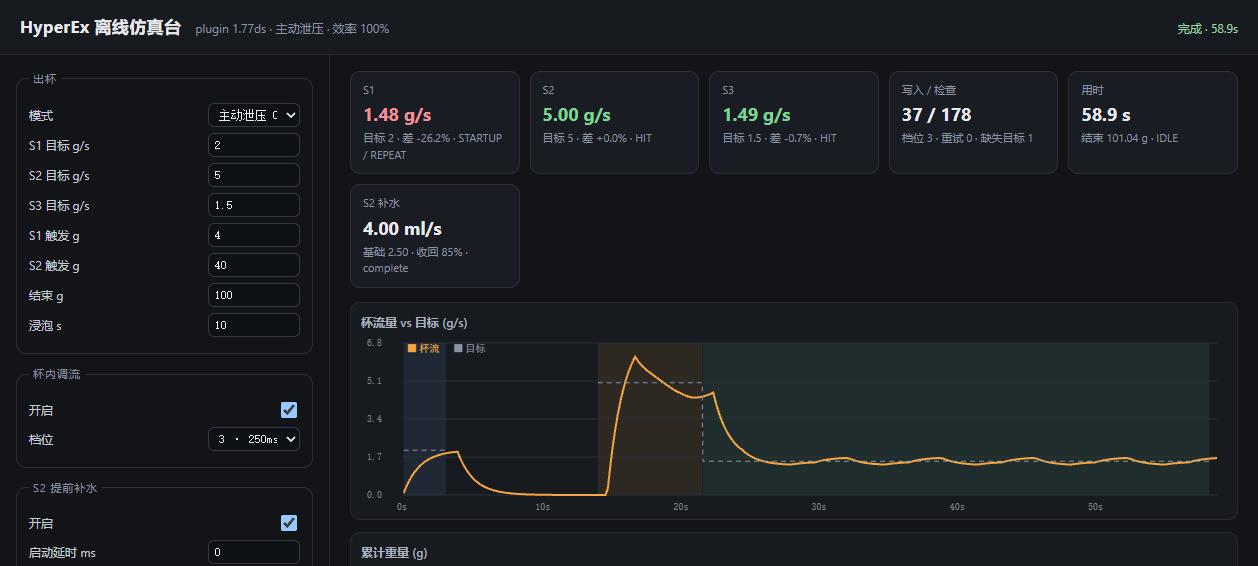
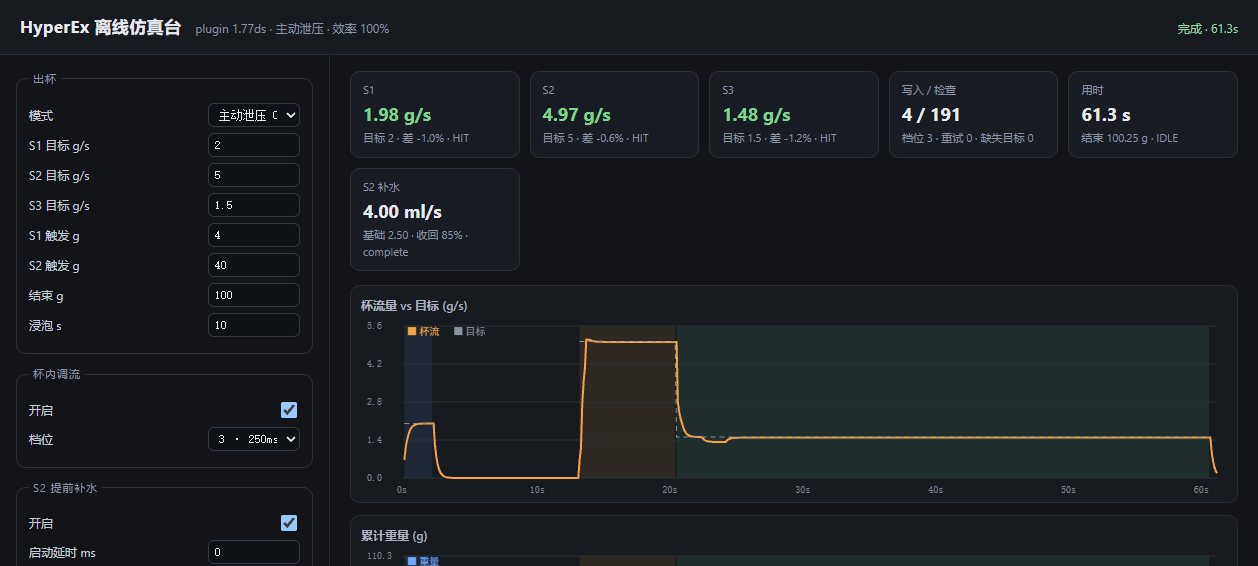
sim：按 Decaid mock_de1 对齐机器模型
100ms tick、0.35/tick 流量响应、压力线性于机器流量并在当前帧 limiter/11bar 处回压流量、state 快照改为 Decaid 的嵌套 state/substate 形状；杯流仍用插件标定 LUT 换算，秤重积分加噪声。默认场景 S1/S2/S3 1.98/4.97/1.48，压力受限场景可比。

diff --git a/sim/harness.js b/sim/harness.js
@@ -31,7 +31,7 @@ function round(v, n) { const p = 10 ** (n || 2); return Math.round(v * p) / p; }
 
 function createEnv(logs) {
   const handles = new Map();
-  const machine = { state: 'idle', substate: 'idle', frame: 0, command: 0, requested: 0, flow: 0, pressure: 0, baseCommand: 0, writeCommand: null, baseFrame: -1 };
+  const machine = { state: 'idle', substate: 'idle', frame: 0, command: 0, requested: 0, flow: 0, pressure: 0, baseCommand: 0, writeCommand: null, baseFrame: -1, machineFlow: 0 };
   let nowMs = 0;
   let seq = 0;
   const timers = new Map();
@@ -86,7 +86,7 @@ function createEnv(logs) {
     if (pathOnly.startsWith('/machine/state/')) {
       const cmd = pathOnly.split('/').pop();
       if (cmd === 'idle') { machine.state = 'idle'; machine.substate = 'idle'; }
-      else if (cmd === 'espresso') { machine.state = 'espresso'; machine.substate = 'preinfusion'; machine.frame = 0; machine.writeCommand = null; }
+      else if (cmd === 'espresso') { machine.state = 'espresso'; machine.substate = 'preinfusion'; machine.frame = 0; machine.writeCommand = null; machine.machineFlow = 0; }
       else if (cmd === 'skipStep') { machine.frame = Math.min(4, machine.frame + 1); machine.substate = 'pouring'; }
       return { status: 200, body: { ok: true } };
     }
@@ -153,7 +153,7 @@ function createEnv(logs) {
 }
 
 function plantDefaults() {
-  return { efficiency: 1.0, tau: 1.2, deadTime: 0.8, noise: 0.015, pressureK: 1.05, pressureB: 0.6 };
+  return { efficiency: 1.0, pumpResponse: 0.35, deadTime: 0.2, noise: 0.015, pressureK: 2.2, pressureB: 0.4 };
 }
 
 // Steady-state cup flow for a pump command, interpolated from the calibrated
@@ -240,7 +240,7 @@ async function runShot(params) {
   await env.drain();
 
   const series = [];
-  const dt = 0.05;
+  const dt = 0.1;
   let t = 0, weight = 0, cupFlow = 0, lastSample = -1, lastState = -1;
   const dead = [];
   const profile = h.profileObject();
@@ -270,15 +270,34 @@ async function runShot(params) {
     if (frame !== autoFrame) { autoFrame = frame; frameEnteredAt = t; }
     if (frame !== m.baseFrame) { m.baseFrame = frame; m.writeCommand = null; m.baseCommand = Number(stepAt(frame).flow) || 0; }
 
-    // Hydraulic plant.
+    // Hydraulic plant modelled on Decaid's mock DE1: 100 ms ticks, first-order
+    // flow response, puck pressure and the current frame's pressure limiter.
+    const step = stepAt(frame);
     const cmd = m.state === 'espresso' ? (m.writeCommand == null ? m.baseCommand : m.writeCommand) : 0;
     dead.push({ t, cmd });
     while (dead.length && dead[0].t < t - p.plant.deadTime) dead.shift();
-    const delayed = dead.length ? dead[0].cmd : 0;
-    const target = cupFlowForCommand(delayed, anchors) * p.plant.efficiency;
-    cupFlow += (target - cupFlow) * Math.min(1, dt / Math.max(0.05, p.plant.tau));
+    const targetMlS = dead.length ? dead[0].cmd : 0;
+    const limiter = Number(step.limiter && step.limiter.value) || 11;
+    if (m.state === 'espresso') {
+      const rate = Math.min(1, Math.max(0.01, p.plant.pumpResponse));
+      m.machineFlow += (targetMlS - m.machineFlow) * rate;
+      let pressure = p.plant.pressureB + p.plant.pressureK * m.machineFlow;
+      if (pressure > limiter) {
+        pressure = limiter;
+        m.machineFlow = Math.max(0, (limiter - p.plant.pressureB) / p.plant.pressureK);
+      }
+      if (pressure > 11) {
+        pressure = 11;
+        m.machineFlow = Math.min(m.machineFlow, Math.max(0, (11 - p.plant.pressureB) / p.plant.pressureK));
+      }
+      m.pressure = pressure;
+    } else {
+      m.machineFlow += (0 - m.machineFlow) * 0.35;
+      m.pressure = 0.2;
+    }
+    cupFlow = cupFlowForCommand(m.machineFlow, anchors) * p.plant.efficiency;
     weight += cupFlow * dt;
-    const pressure = m.state === 'espresso' ? Math.max(0, p.plant.pressureB + p.plant.pressureK * cupFlow) : 0.2;
+    const pressure = m.pressure;
 
     t += dt;
 
@@ -291,9 +310,10 @@ async function runShot(params) {
     if (t - lastState >= 0.2) {
       lastState = t;
       h.handleStateUpdate({
-        machineState: m.state, substate: m.substate, pressure: round(pressure, 3),
-        flow: round(m.state === 'espresso' ? (m.requested || 0) : 0, 3),
-        targetFlow: round(m.state === 'espresso' ? (m.requested || 0) : 0, 3),
+        state: { state: m.state, substate: m.substate },
+        pressure: round(pressure, 3),
+        flow: round(m.machineFlow, 3),
+        targetFlow: round(m.state === 'espresso' ? cmd : 0, 3),
         profileFrame: m.frame,
       });
       await env.drain();
@@ -301,7 +321,7 @@ async function runShot(params) {
 
     series.push({
       t: round(t, 2), weight: round(weight, 2), cupFlow: round(cupFlow, 3),
-      command: round(m.state === 'espresso' ? (m.requested || 0) : 0, 4),
+      command: round(cmd, 4), machineFlow: round(m.machineFlow, 3),
       pressure: round(pressure, 2), frame: m.frame, phase: s.phase,
     });
 

diff --git a/sim/public/index.html b/sim/public/index.html
@@ -72,10 +72,10 @@ canvas{width:100%;height:180px;display:block}
   </fieldset>
   <fieldset><legend>植物模型</legend>
     <label>効率 %<input id="pEff" type="number" step="1" value="100"></label>
-    <label>时间常数 s<input id="pTau" type="number" step="0.1" value="1.2"></label>
-    <label>纯滞后 s<input id="pDead" type="number" step="0.1" value="0.8"></label>
+    <label>泵响应 /100ms<input id="pResp" type="number" step="0.05" value="0.35"></label>
+    <label>纯滞后 s<input id="pDead" type="number" step="0.1" value="0.2"></label>
     <label>称重噪声 g<input id="pNoise" type="number" step="0.005" value="0.015"></label>
-    <label>压力系数 bar/(g/s)<input id="pK" type="number" step="0.05" value="1.05"></label>
+    <label>压力系数 bar/(ml/s)<input id="pK" type="number" step="0.05" value="2.2"></label>
     <label>最长时长 s<input id="maxS" type="number" step="5" value="90"></label>
   </fieldset>
   <button class="primary" id="run">运行仿真</button>

diff --git a/sim/public/app.js b/sim/public/app.js
@@ -18,7 +18,7 @@ function readParams() {
     },
     policy: $('policy').value,
     plant: {
-      efficiency: num('pEff') / 100, tau: num('pTau'), deadTime: num('pDead'),
+      efficiency: num('pEff') / 100, pumpResponse: num('pResp'), deadTime: num('pDead'),
       noise: num('pNoise'), pressureK: num('pK'),
     },
     maxSeconds: num('maxS'),

diff --git a/sim/README.md b/sim/README.md
@@ -31,20 +31,23 @@ node sim/smoke.js
 - **机器**：状态机由插件自己推（重量触发、skipStep、idle），仿真只回应命令并推进 profile 帧时间。
 - **秤**：每 100 ms 一个样本，时间戳用虚拟秒，带可选高斯噪声。
 
-## 植物模型
+## 植物模型（对齐 Decaid 的 mock DE1）
 
-稳态杯流按标定锚点插值（0.569→1.5、0.719→2.0、2.507→5.0 g/s），再乘「效率」，然后过一阶滞后和纯滞后：
+机器侧取自 Decaid 仓库的 `lib/src/models/device/impl/mock_de1/mock_de1.dart`：100 ms tick、流量按 0.35/tick 一阶逼近目标、压力线性于机器流量、到当前帧的 limiter（或 11 bar）时反向限制流量。杯流再把机器流量按标定锚点换算成 g/s：
 
 ```
-target = interp_LUT(command) * efficiency
-flow   = 一阶滞后(target, tau) + 纯滞后(deadTime)
-weight = ∫ flow dt + 称重噪声
-pressure = B + K * flow
+machineFlow = 一阶逼近(command, 0.35/100ms)，经纯滞后
+pressure    = B + K * machineFlow，超过当前帧 limiter 就压回流量
+cupFlow     = interp_LUT(machineFlow) * efficiency
+weight      = ∫ cupFlow dt + 称重噪声
 ```
 
-- **效率**：100% 表示和标定一致；90% 模拟粉饼阻力变化、泵衰减或豆子差异。这是最常用的一个旋钮。
-- **时间常数 / 纯滞后**：模拟液压惯性。滞后越大，实时调流越容易过冲。
-- **压力系数**：只影响压力曲线和限压保护是否触发，不参与杯流计算。
+- **效率**：100% 表示与标定一致；90% 模拟粉饼/泵/豆子导致的杯流产率下降。最常用的旋钮。
+- **泵响应**：每 100 ms 向目标推进的比例，对应 Decaid mock 的 `flowResponseRate = 0.35`；调小更迟钝。
+- **纯滞后**：命令到出流的传输延迟。
+- **压力系数**：bar per ml/s。调大更容易先撞 limiter，从「能调」变成「压力受限」。
+
+Decaid 的 `skipStep` 语义（推进一个 profile step、重置计时）、`espresso` 重置、`pouringDone → idle` 与 `state/substate` 字段名都按它的实现对齐。
 
 ## 页面能做什么
 

diff --git a/decenthyperexplugin.reaplugin/HANDOFF_v0177ds.md b/decenthyperexplugin.reaplugin/HANDOFF_v0177ds.md
@@ -25,7 +25,7 @@ I checked the two manifest entries I previously described as dead: `changed` and
 - `sim/public/` — parameter panel, flow/weight/pressure charts, A/B comparison, JSON export.
 - `sim/README.md` — model description and limits.
 
-The plant interpolates the calibration anchors, applies an efficiency factor, first-order lag, dead time, weight noise and a simple pressure law. It is a trend tool: it does not reproduce Decaid profile verification, GHC interaction, real pump/valve dynamics or host storage timing.
+The machine side follows Decaid's own `mock_de1.dart`: 100 ms ticks, a 0.35/tick first-order flow response, pressure proportional to machine flow, and the current frame's limiter (or 11 bar) feeding back to cap flow. Cup flow is then the plugin's calibration LUT applied to machine flow, times a user-set efficiency. `skipStep` advances one profile step and resets the step clock, matching Decaid's mock. Decaid ships no cup-scale model, so weight remains an integration of cup flow plus noise. It is a trend tool: it does not reproduce Decaid profile verification, GHC interaction, real pump/valve dynamics, firmware closed loops or host storage timing.
 
 ## Packaging
 
